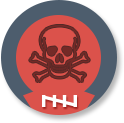
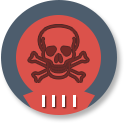
worknig on badging

Changed region(s): [[0.2177, 0.1951, 0.75, 0.6829], [0.3387, 0.7561, 0.629, 0.9024]]

diff --git a/app/assets/stylesheets/landing.css.scss b/app/assets/stylesheets/landing.css.scss
@@ -693,7 +693,18 @@ table.matches {
   }
 }
 
+.badges-well {
+  img, .empty-badge {
+    display: inline-block;
+    width: 66px;
+    margin: 12px 10px 8px 0;
+  }
 
+  .empty-badge {
+    opacity: 0.2;
+  }
+
+}
 
 
 
